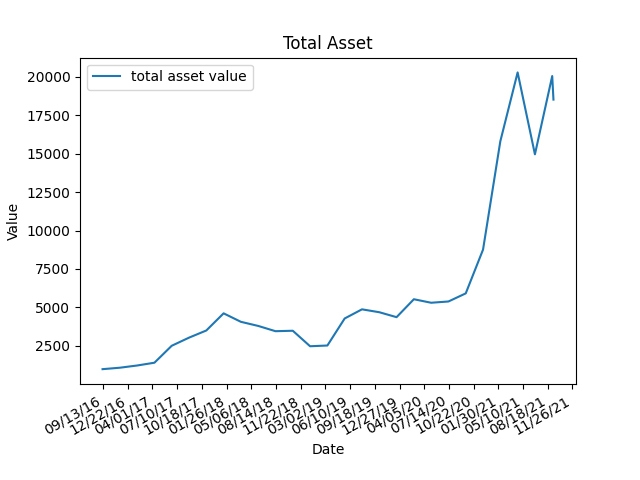
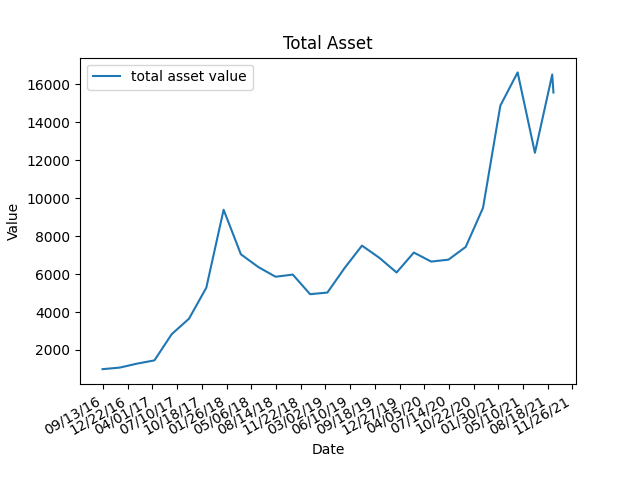
优化了随机数法的逻辑 并重置了其统计图片

diff --git a/RANDOM.py b/RANDOM.py
@@ -12,23 +12,15 @@ def getRandomWeight(mode):
         sums = np.sum(randlist)
         return [randlist[0]/sums, randlist[1]/sums]
 
-def Pump(dqy, mode ,mark,date):
+def Pump(dqy, mode ,mark, date):
     if mode == 0:
-        diff = dqy.money - mark
-        dqy.money = mark
-        return diff
+        pass
     elif mode == 1:
         dqy.sell_bitcoin(dqy.bitcoin_amount - mark/dqy.bitcoin_market[date], date)
-        diff = dqy.money - mark
-        dqy.money = mark
-        return diff
     elif mode == 2:
         dqy.sell_gold(dqy.gold_amount - mark/dqy.gold_market[date], date)
-        diff = dqy.money - mark
-        dqy.money = mark
-        return diff
 
-def Flood(dqy, mode ,mark, date, pool):
+def Flood(dqy, mode ,mark, date):
     if mode == 0:
         pass
     elif mode == 1:
@@ -45,43 +37,39 @@ def RANDOM(date, dqy, bitcoin, gold, time_sort):
         self_asset = np.sum(assetlist)
         Expections = getRandomWeight(0)
         Exp_list = self_asset * np.array([Expections[2],Expections[1],Expections[0] ])
-        money_pool = 0
         i = 0
         
         for Exp, actual in zip(Exp_list, assetlist):
             if i!= 2:
                 if actual > Exp:
-                    money_pool += Pump(dqy, i, Exp, date)
+                    Pump(dqy, i, Exp, date)
             else:
                 if actual > Exp:
-                    money_pool += Pump(dqy, i, Exp, gold_date_index)
+                    Pump(dqy, i, Exp, gold_date_index)
             i += 1
-        dqy.money += money_pool
         i = 0
         for Exp, actual in zip(Exp_list, assetlist):
             if i != 2:
                 if actual < Exp:
-                    Flood(dqy, i, Exp, date , money_pool)
+                    Flood(dqy, i, Exp, date)
             else:
                 if actual < Exp:
-                    Flood(dqy, i, Exp, gold_date_index , money_pool)
+                    Flood(dqy, i, Exp, gold_date_index)
             i += 1
     else:
         assetlist = [dqy.money, dqy.bitcoin_amount * bitcoin[date]]
         self_asset = np.sum(assetlist)
-        money_pool = 0
         i = 0
         Expections = getRandomWeight(1)
         Exp_list = self_asset * np.array([Expections[1], Expections[0]])
         for Exp, actual in zip(Exp_list, assetlist):
             if actual > Exp:
-                money_pool += Pump(dqy, i, Exp, date)
+                Pump(dqy, i, Exp, date)
             i += 1
-        dqy.money += money_pool
         i = 0
         for Exp, actual in zip(Exp_list, assetlist):
             if actual < Exp:
-                Flood(dqy, i, Exp, date , money_pool)
+                Flood(dqy, i, Exp, date)
             i += 1
         
                 
